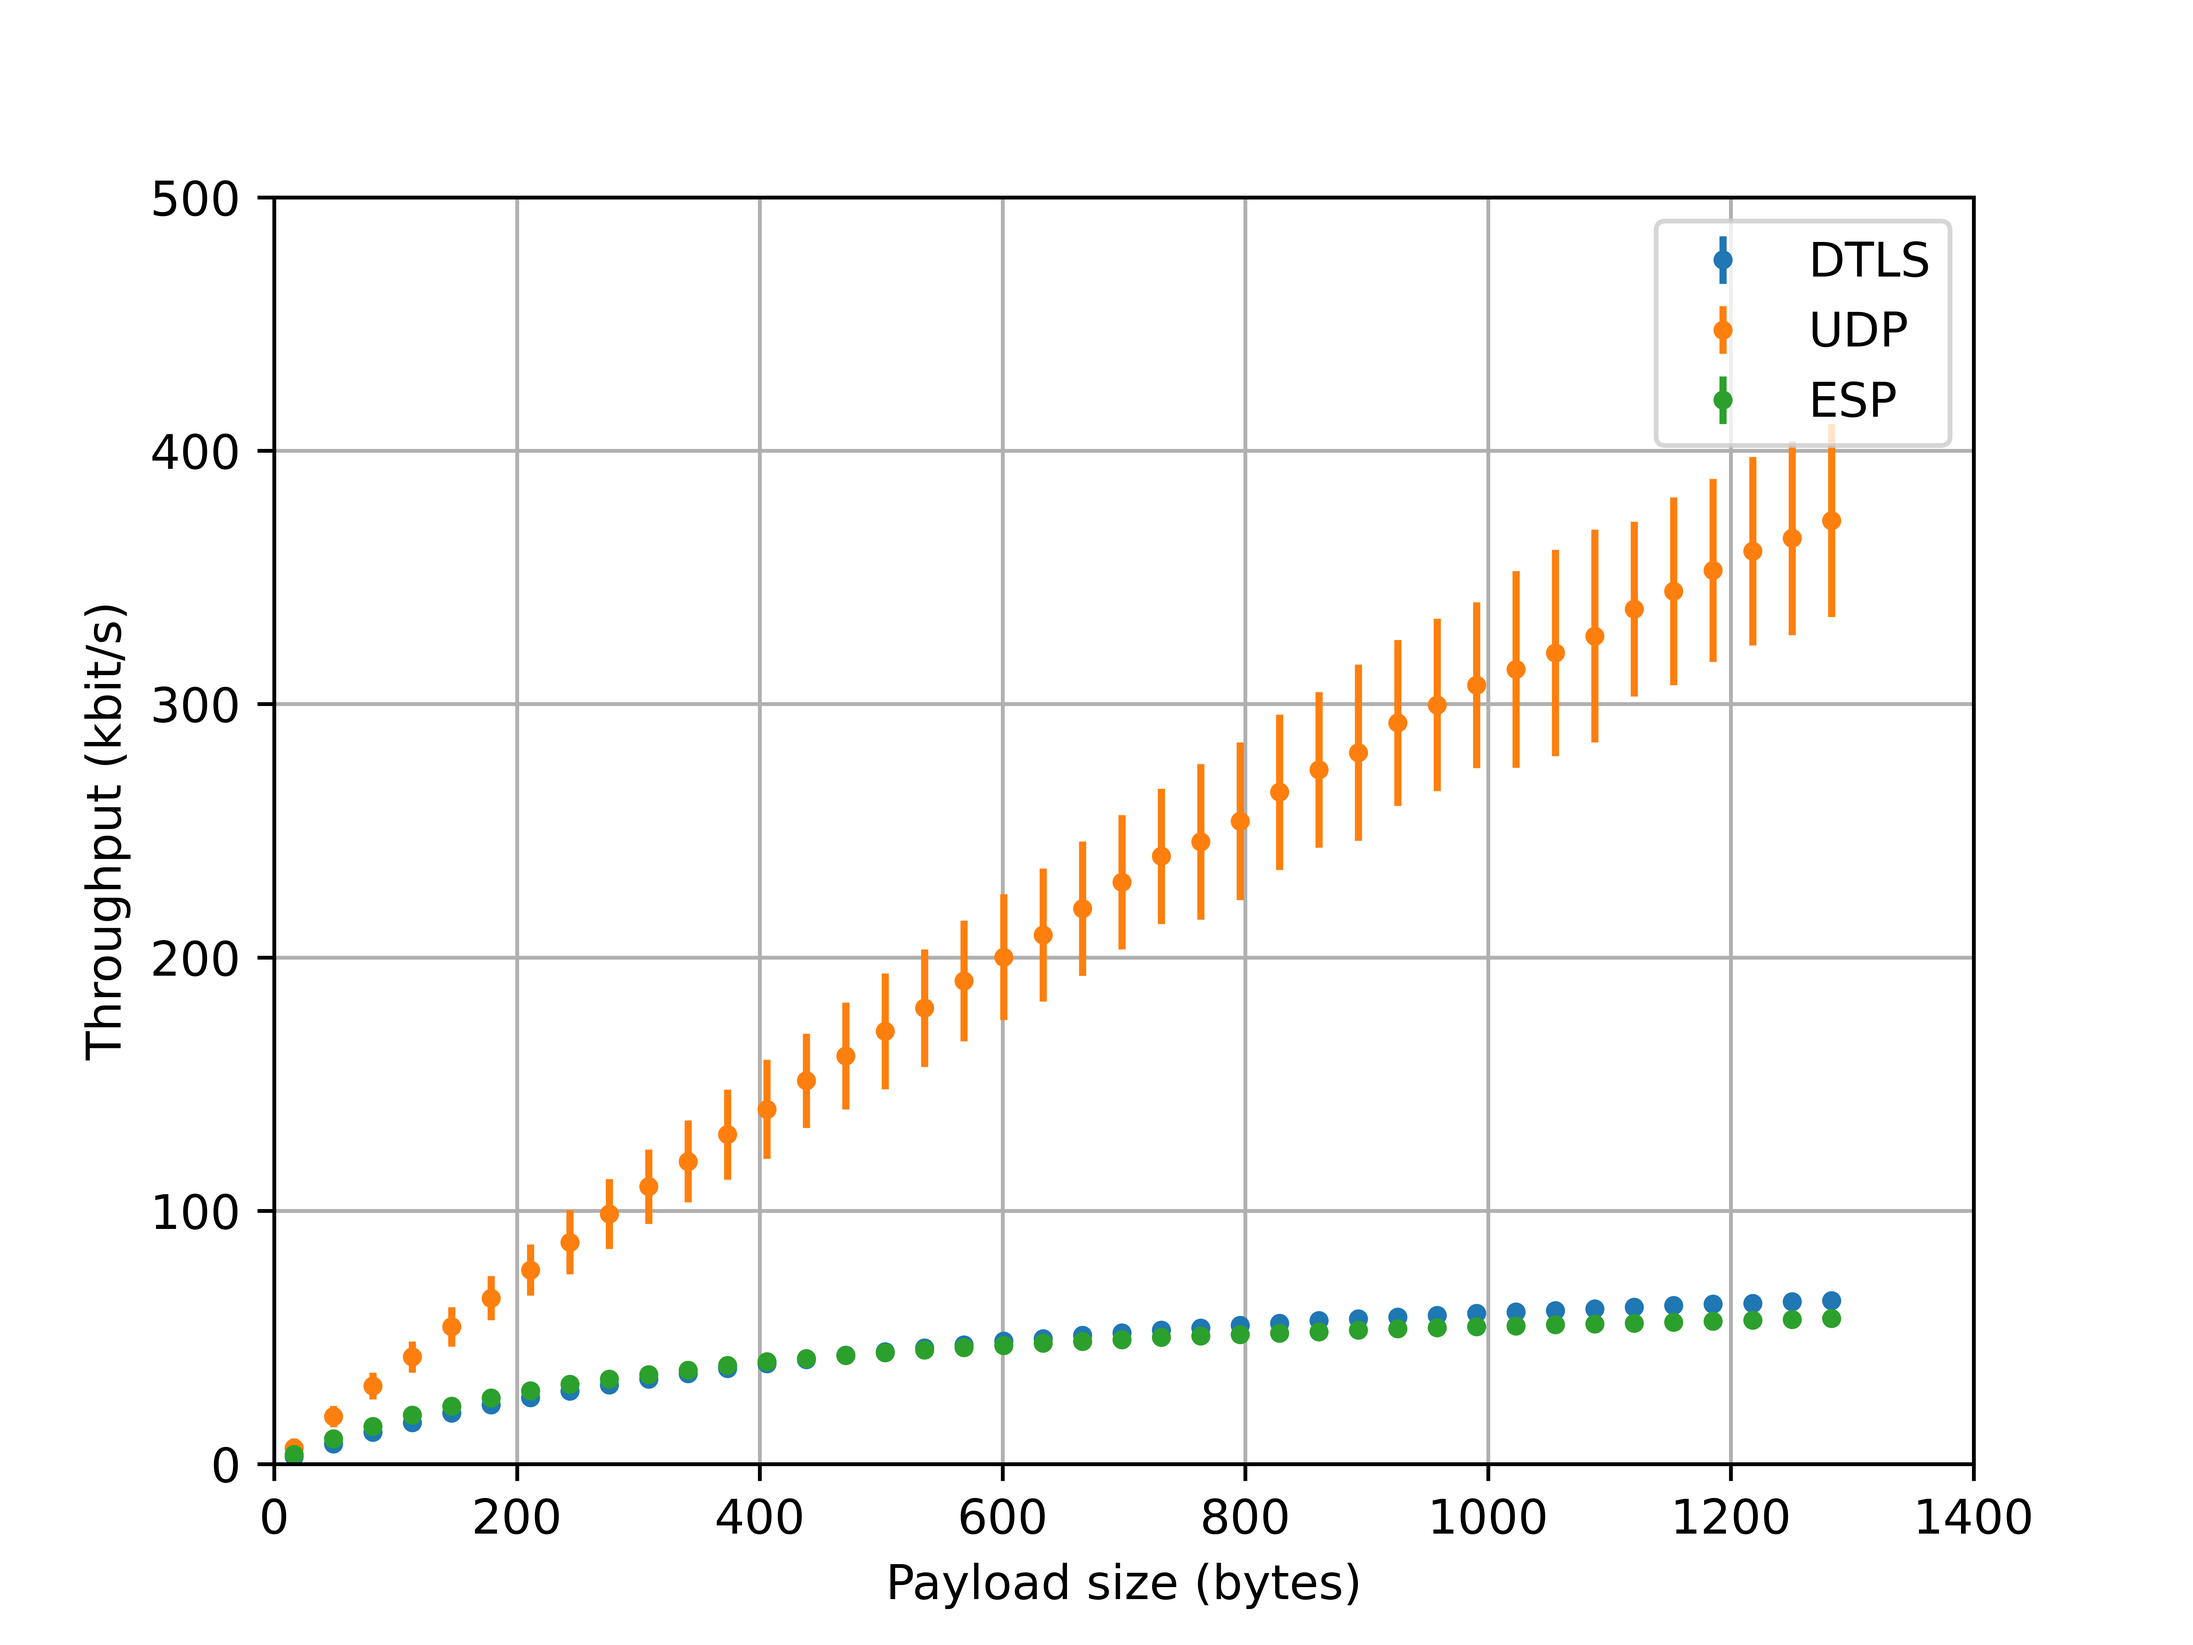
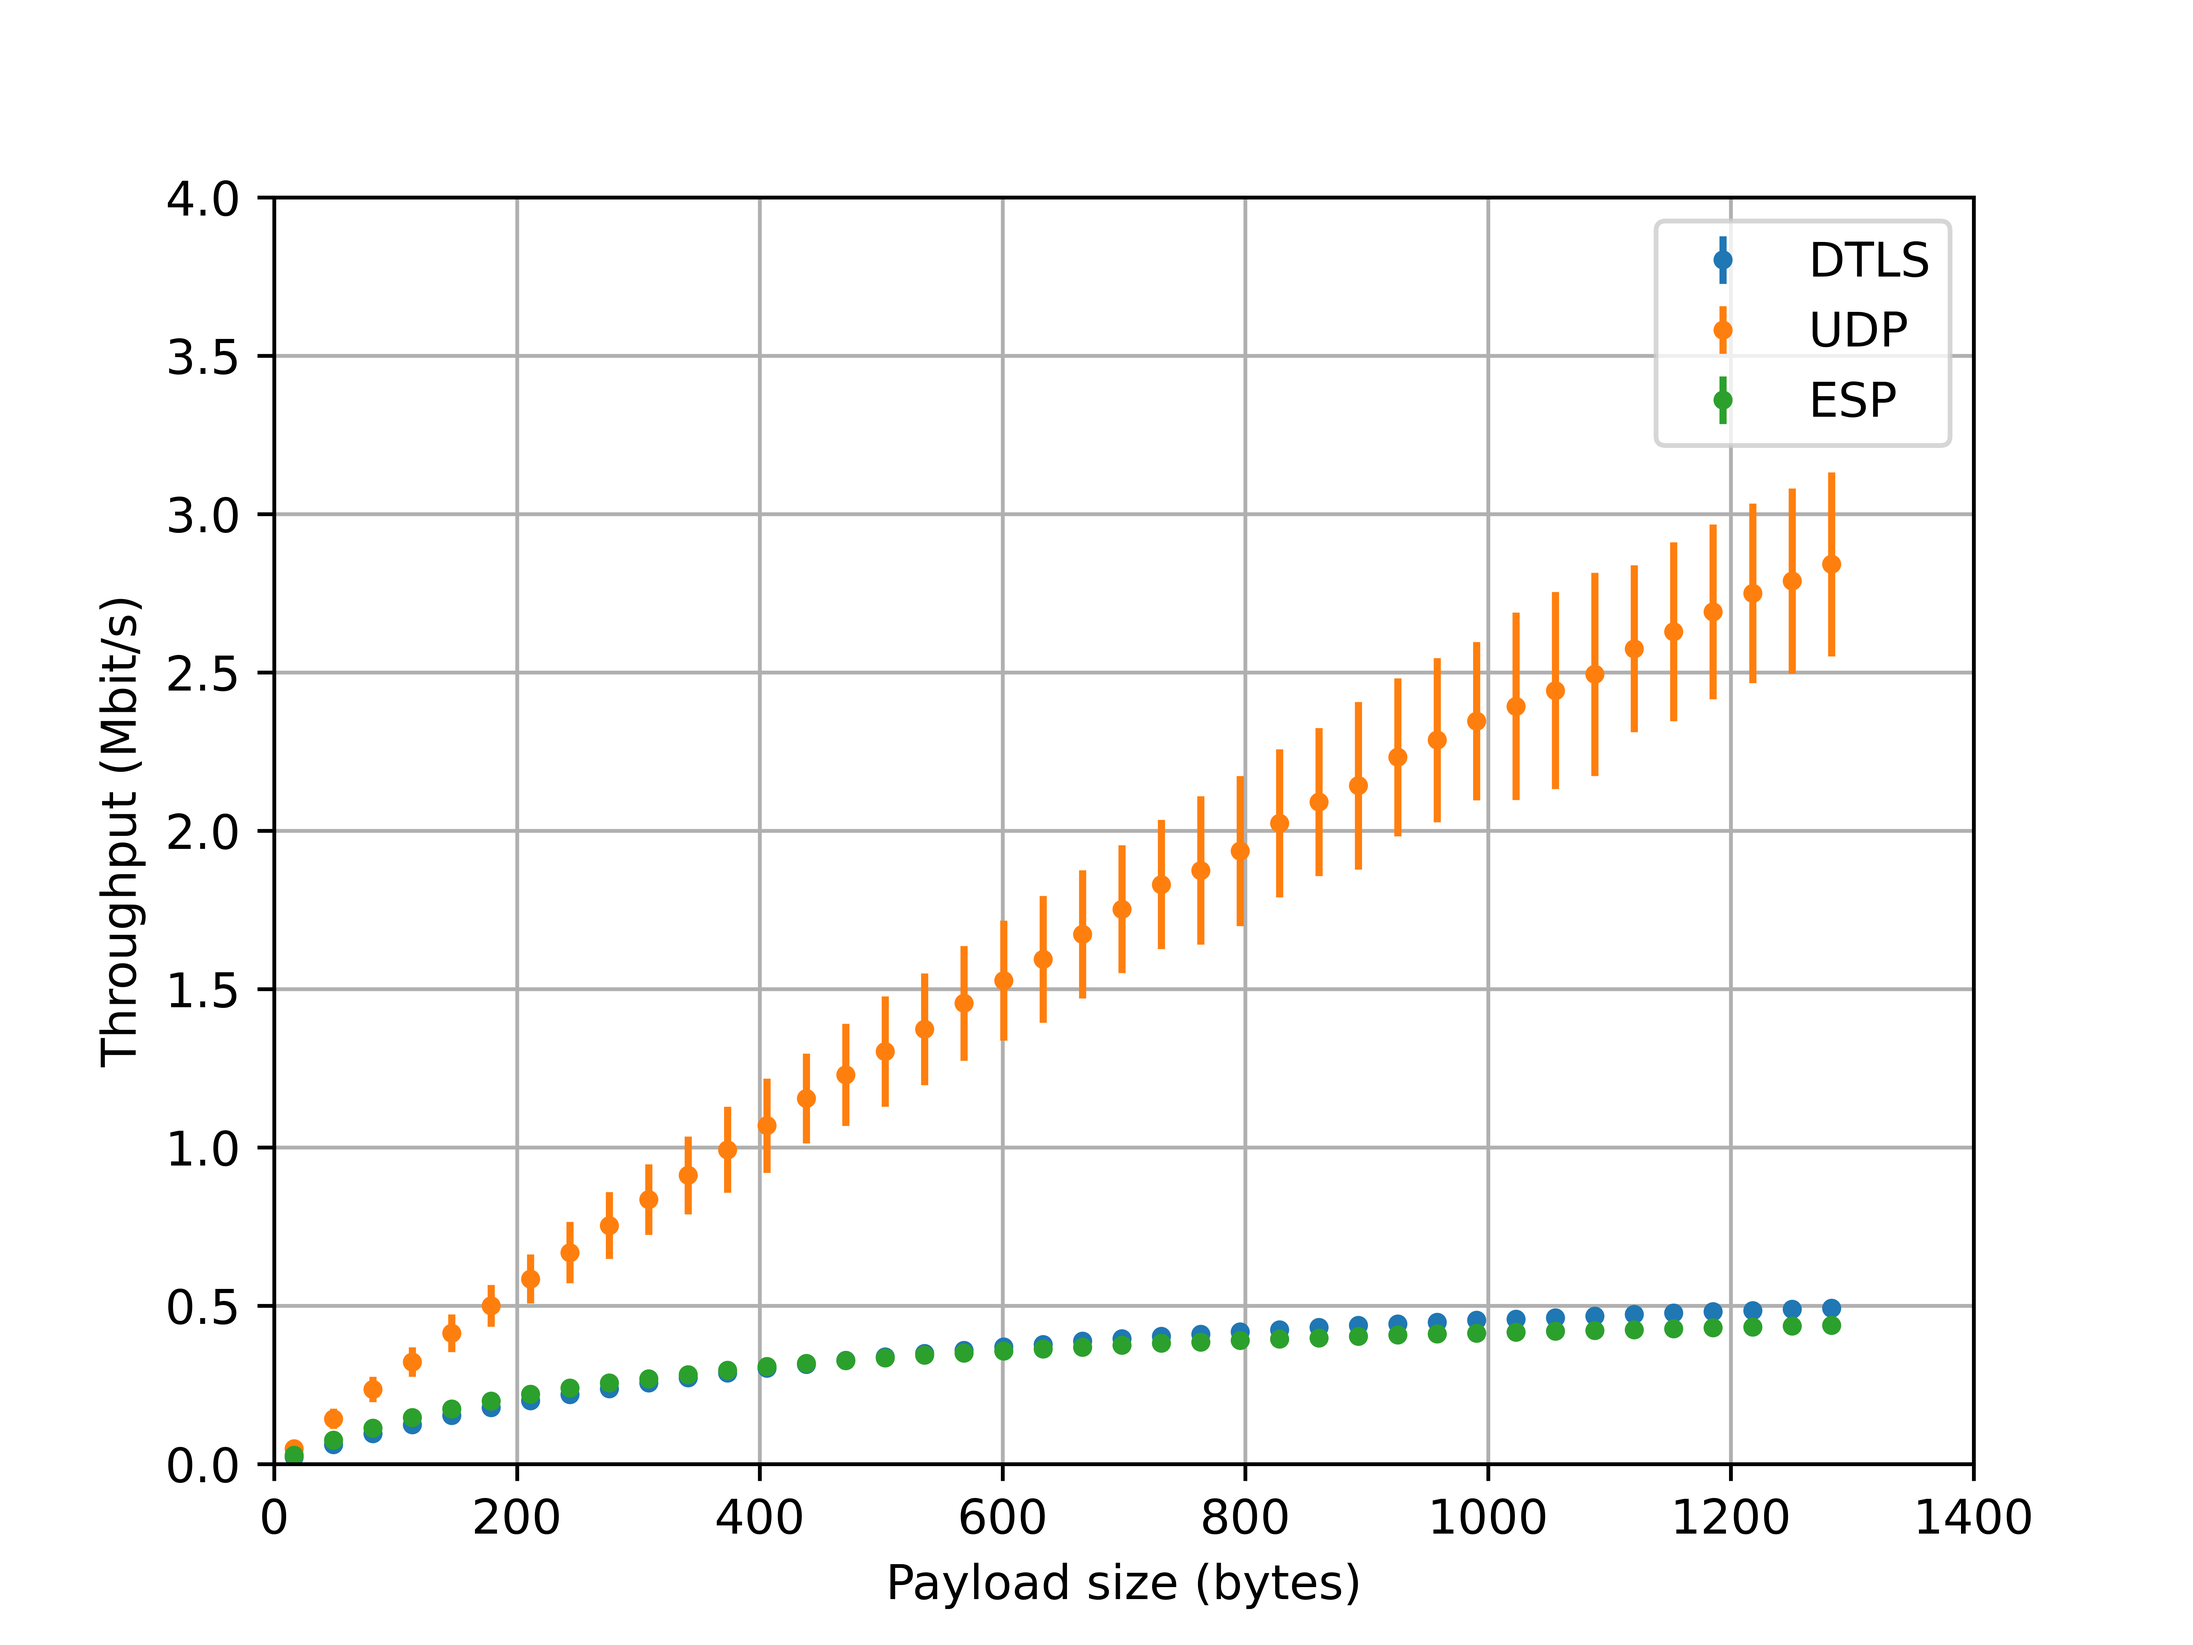
power usage

diff --git a/tools/power_counter.py b/tools/power_counter.py
@@ -1,0 +1,74 @@
+import math
+import os
+import pprint
+
+import numpy as np
+import pathlib
+
+import matplotlib.pyplot as plt
+
+from tabulate import tabulate
+
+
+BASE_DIR = pathlib.Path(__file__).parent.parent
+FILE = BASE_DIR / 'results/power.txt'
+
+SIZE = 1300
+NUM = 10000
+
+translations = {
+    'performance_server_DTLSServerWolfSSL_perform': 'DTLS Nucelo',
+    'performance_server_DTLSServerWolfSSL_perform_esp': 'DTLS Node MCU',
+    'performance_server_DTLSServerWolfSSL_perform_test': 'ESP(DTLS) Nucleo',
+    'performance_server_UDPServer_perform': 'UDP Nucleo',
+    'performance_server_UDPServer_perform_esp': 'UDP Node MCU',
+    'performance_server_UDPServer_perform_esp_ipsec': 'ESP Node MCU',
+    'performance_server_UDPServer_perform_ipsec': 'ESP Nucleo',
+}
+
+
+def main():
+    data = {}
+    for l in open(FILE).readlines():
+        split = l.replace(',', '').split()
+        name = f'{split[0]} {split[1]}'
+        energy = float(split[2]) * 60 * 60  # Wh -> J
+        hours, minutes, seconds = split[4].split(':')
+        duration = int(seconds) + 60 * (int(minutes) + 60 * int(hours))
+        packets = int(split[5])
+        packet_size = int(split[7])
+        power = energy / duration
+        data[name] = {
+            'energy': energy,
+            'duration': duration,
+            'packets': packets,
+            'packets_size': packet_size,
+            'power': power * 1000,  # [mW]
+            'speed': packets * packet_size * 2 * 8 / duration / 2**20,
+        }
+    for k, vals in data.items():
+        idle = data[f'{k.split()[0]} idle']
+        extra_power = vals['power'] - idle['power']
+        vals['extra_power'] = extra_power
+        extra_energy = extra_power * duration
+        energy_per_packet = extra_energy / (vals['packets'] or math.inf)
+        energy_per_data_byte = extra_energy / ((vals['packets'] * vals['packets_size']) or math.inf)
+        vals['energy_per_packet'] = energy_per_packet  # [mJ]
+        vals['energy_per_data_byte'] = energy_per_data_byte * 10**3  # [mJ/kB]
+    for k, v in data.items():
+        for kk, vv in v.items():
+            if isinstance(vv, float):
+                v[kk] = float('{:.3g}'.format(vv))
+    pprint.pprint(data)
+
+    tab = [['Case', 'time [s]', 'energy [J]', 'power [mW]', 'net power [mW]', 'net energy per packet [mJ]', 'net energy per byte [mJ/kB]']]
+    for k, v in data.items():
+        tab.append([k, v['duration'], v['energy'], v['power'], v['extra_power'], v['energy_per_packet'], v['energy_per_data_byte']])
+    pprint.pprint(tab)
+    latex_table = tabulate(tab, headers="firstrow", tablefmt="latex")
+    print(latex_table)
+    return
+
+
+if __name__ == '__main__':
+    main()

diff --git a/tools/perf_averager.py b/tools/perf_averager.py
@@ -27,6 +27,7 @@ translations = {
     'performance_server_UDPServer_perform_ipsec': 'ESP Nucleo',
 }
 
+
 def main():
     files = [f for f in os.listdir(DIR) if f.startswith(PREFIX)]
     groups = {}
@@ -47,53 +48,6 @@ def main():
         tab.append([translations[k]] + [f'{x:.3f}' for x in v])
     latex_table = tabulate(tab, headers="firstrow", tablefmt="latex")
     print(latex_table)
-
-    # tab = [['Case', 'Text', 'Data', 'BSS', 'DEC']]
-    # text_t = []
-    # data_t = []
-    # bss_t = []
-    # names_t = []
-    # lines = open(FILE).readlines()
-    # for i in range(math.ceil(len(lines) / 5)):
-    #     name = lines[i * 5].replace(':', '').strip()
-    #     sizes = [int(x) for x in lines[i * 5 + 2].split()[:4]]
-    #     text_t.append(sizes[1]/1000)
-    #     data_t.append(sizes[2]/1000)
-    #     bss_t.append(sizes[3]/1000)
-    #     names_t.append(name)
-    #     tab.append([headers_d[name], *sizes])
-    # latex_table = tabulate(tab, headers="firstrow", tablefmt="latex")
-    # print(latex_table)
-
-
-    # # Calculate the positions of the bars on the x-axis
-    # categories = ['Text', 'Data', 'BSS']
-    # bar_positions = range(len(tab) - 1)
-
-    # # Create the figure and axis objects
-    # fig, ax = plt.subplots()
-
-    # # Plot the stacked bars
-    # ax.bar(bar_positions, bss_t, label='BSS')
-    # ax.bar(bar_positions, data_t, bottom=bss_t, label='Data')
-    # ax.bar(bar_positions, text_t, bottom=[i + j for i, j in zip(bss_t, data_t)], label='Text')
-
-    # # Set the x-axis labels
-    # ax.set_xticks(bar_positions)
-    # #ax.set_xticklabels([headers_d[n] for n in names_t], rotation=90)
-    # ax.set_xticklabels(names_t, rotation=90)
-
-    # # Add a legend
-    # ax.legend()
-
-    # # Add labels to the y-axis and title to the chart
-    # ax.set_ylabel('Size [kB]')
-    # ax.set_title('Binary file sizes')
-
-    # # Display the chart
-    # plt.subplots_adjust(left=0.1, bottom=0.4, right=0.9, top=0.9)
-    # #plt.show()
-    # plt.savefig(BASE_DIR / f'graphs/module_sizes', dpi=1000)
 
 
 if __name__ == '__main__':

diff --git a/tools/speeds.py b/tools/speeds.py
@@ -9,9 +9,9 @@ FILE_UDP = BASE_DIR / 'results/benchmark_server_UDPServer_enp0s31f6_2023_05_14_1
 FILE_ESP = BASE_DIR / 'results/benchmark_server_UDPServer_enp0s31f6_2023_05_13_17_46.csv'
 FILE_DTLS = BASE_DIR / 'results/benchmark_server_DTLSServer_enp0s31f6_2023_05_14_12_59.csv'
 
-FILE_UDP = BASE_DIR / 'results/benchmark_server_UDPServer_wlp4s0_2023_05_20_23_23.csv'
-FILE_ESP = BASE_DIR / 'results/benchmark_server_UDPServer_wlp4s0_2023_05_20_22_10.csv'
-FILE_DTLS = BASE_DIR / 'results/benchmark_server_DTLSServerWolfSSL_wlp4s0_2023_05_21_00_27.csv'
+# FILE_UDP = BASE_DIR / 'results/benchmark_server_UDPServer_wlp4s0_2023_05_20_23_23.csv'
+# FILE_ESP = BASE_DIR / 'results/benchmark_server_UDPServer_wlp4s0_2023_05_20_22_10.csv'
+# FILE_DTLS = BASE_DIR / 'results/benchmark_server_DTLSServerWolfSSL_wlp4s0_2023_05_21_00_27.csv'
 
 
 def get_buckets(x: list, y: list, n: int):
@@ -50,9 +50,9 @@ def draw_processing_multi_graph(datas: dict, fig_name):
         #plt.plot(x, y, 'o')
         plt.errorbar((np.arange(n)+0.5)*bucket_width, bucket_averages, yerr=bucket_stddevs, fmt='.', label=name)
     plt.xlim([0, 1400])
-    plt.ylim(0, 500)
+    plt.ylim(0, 20)
     plt.xlabel('Payload size (bytes)')
-    plt.ylabel('Throughput (kbit/s)')
+    plt.ylabel('Throughput (Mbit/s)')
     plt.grid()
     plt.legend()
     plt.savefig(BASE_DIR / f'graphs/{fig_name}', dpi=1000)
@@ -64,7 +64,7 @@ def read_file_data(filename: str):
     with open(filename, 'r') as csv_file:
         reader = csv.reader(csv_file)
         for idx, row in enumerate(reader):
-            data.append([float(row[0]), 2 * float(row[0]) / float(row[1]) / 1000.])
+            data.append([float(row[0]), 2 * 8 * float(row[0]) / float(row[1]) / 2**20])
     return data
 
 
@@ -74,4 +74,4 @@ if __name__ == '__main__':
         'UDP': read_file_data(FILE_UDP),
         'ESP': read_file_data(FILE_ESP),
     }
-    draw_processing_multi_graph(datas, 'speed_esp.png')
+    draw_processing_multi_graph(datas, 'speed_stm.png')
